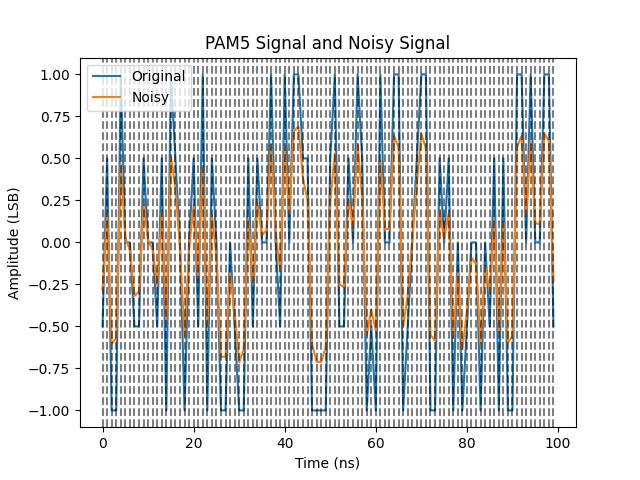
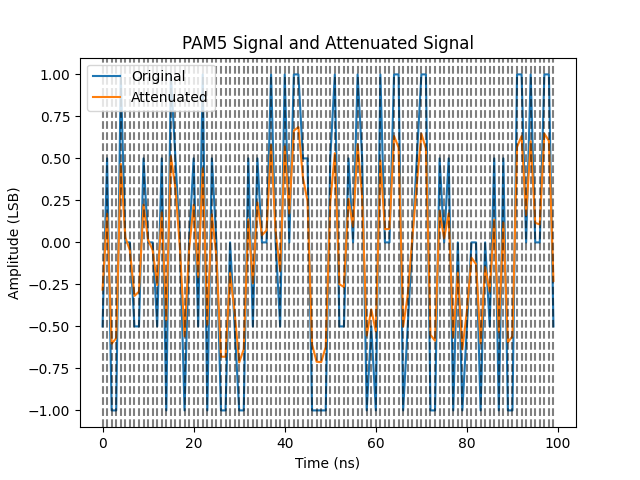
REFACTOR: code

Changed region(s): [[0.1875, 0.0625, 0.75, 0.25]]

diff --git a/generators/chipyard/src/main/resources/python/run_simulation.py b/generators/chipyard/src/main/resources/python/run_simulation.py
@@ -4,6 +4,7 @@ import matplotlib.pyplot as plt
 
 from fir_filter import FirFilterGenerator
 from pam5_symbol_generator import Pam5SymbolGenerator
+from ethernet_channel import GenericEthernetCable, EthernetChannel
 
 
 np.random.seed(420)
@@ -11,11 +12,6 @@ np.random.seed(420)
 
 simulation_frequency = 125e6 # Hz
 sampling_frequency = 125e6 # Hz
-
-# Define target SNR in dB
-target_snr_db = 20
-lowpass_cutoff = 125e6 / 4  # Hz
-
 
 n_symbols = 100
 duration = n_symbols * (1 / sampling_frequency)
@@ -33,46 +29,17 @@ pam5_symbols = Pam5SymbolGenerator.random(n_symbols)
 
 print(f"Symbols: {pam5_symbols}")
 
+
 # convert the symbols to fill real-time clock
-pam5_signal_base = np.repeat(pam5_symbols, simulation_frequency // sampling_frequency) / 2
-# pass through DAC (i.e. scale by 0x3F and convert to single ended)
-# pam5_signal = (pam5_signal_base + 2) * 0x3F
-pam5_signal = pam5_signal_base
-
-# low pass filter the signal
-# pam5_signal = signal.lfilter([1], [1, -lowpass_cutoff], pam5_signal)
-
-# apply convolution smoothing
-window_size = int(sampling_frequency // lowpass_cutoff)
-pam5_signal = pam5_signal # + np.convolve(pam5_signal, np.ones(window_size) / window_size, mode="valid")
+pam5_signal = np.repeat(pam5_symbols, simulation_frequency // sampling_frequency) / 2
 
 
 # Model channel attenuation
 cable_length = 50
 
-freq_MHz = np.array([0, 1, 4, 8, 10, 16, 20, 25, 31.25, 62.5, 100])
-attenuation_dB = np.array([0, 2.0, 3.8, 5.3, 6.0, 7.6, 8.5, 9.5, 10.7, 15.4, 19.8])
-attenuation_dB *= (cable_length / 100)
+channel = EthernetChannel(GenericEthernetCable, cable_length)
 
-# attenuate the signal at each frequency
-# Perform FFT to transform the signal to the frequency domain
-pam5_signal_freq = np.fft.fft(pam5_signal)
-
-# Create a frequency axis
-freq_axis = np.fft.fftfreq(len(pam5_signal), d=1/simulation_frequency)
-
-# Interpolate the attenuation values to match the frequency axis
-attenuation_interp = np.interp(np.abs(freq_axis), freq_MHz * 1e6, attenuation_dB)
-
-# Convert attenuation from dB to linear scale
-attenuation_linear = 10 ** (-attenuation_interp / 20)
-
-# Apply the attenuation to the frequency domain signal
-pam5_signal_freq_attenuated = pam5_signal_freq * attenuation_linear
-
-# Transform the attenuated signal back to the time domain
-pam5_signal_noisy = np.fft.ifft(pam5_signal_freq_attenuated).real
-
+pam5_signal_noisy = channel.attenuate(pam5_signal, simulation_frequency)
 
 
 # create time axis
@@ -91,23 +58,11 @@ symbol_boundaries = np.arange(0, len(pam5_signal), simulation_frequency // sampl
 for i in range(n_symbols):
     plt.axvline(x=symbol_boundaries[i], color="k", linestyle="--", alpha=0.5)
 
-# draw triangle to represent sampling point
-# samping_offset = 0.25 * (1 / sampling_frequency) * 1e9
-# samping_offset_s = e-9
-
-# sampled_points = []
-
-# print(f"Samping offset: {samping_offset_s * 1e9} ns")
-# for i in range(len(symbol_boundaries)):
-#     index = int(symbol_boundaries[i] + samping_offset_s * 1e9)
-#     if index < len(pam5_signal):
-#         plt.plot([symbol_boundaries[i] + samping_offset_s * 1e9], [pam5_signal_noisy[index]], 'ro', alpha=0.5)
-#         sampled_points.append(pam5_signal_noisy[index])
 
 plt.xlabel("Time (ns)")
 plt.ylabel("Amplitude (LSB)")
-plt.title("PAM5 Signal and Noisy Signal")
-plt.legend(["Original", "Noisy"])
+plt.title("PAM5 Signal and Attenuated Signal")
+plt.legend(["Original", "Attenuated"])
 
 plt.savefig("test_pam5_signal.png")
 
@@ -117,9 +72,7 @@ plt.close()
 
 
 gen = FirFilterGenerator()
-
-taps = gen.calculate_taps(cable_length=cable_length)
-
+taps = gen.calculate_taps(channel_profile=GenericEthernetCable, cable_length=cable_length)
 
 result = gen.simulate(pam5_signal_noisy)
 
@@ -130,9 +83,10 @@ output_power = np.max(np.abs(result))
 print(f"Input Power: {input_power:.2f}")
 print(f"Output Power: {output_power:.2f}")
 
-print(f"attenuation: {10 * np.log10(output_power / input_power):.2f} dB, {output_power / input_power:.2f} LSB")
+attenuation = output_power / input_power
+attenuation_lsb = attenuation * 0xFF
 
-
+print(f"Attenuation: {10 * np.log10(attenuation):.2f} dB, {attenuation_lsb:.2f} LSB")
 
 plt.clf()
 plt.close()

diff --git a/generators/chipyard/src/main/resources/python/ethernet_channel.py b/generators/chipyard/src/main/resources/python/ethernet_channel.py
@@ -1,0 +1,44 @@
+from dataclasses import MISSING
+
+import numpy as np
+import scipy.signal as signal
+import matplotlib.pyplot as plt
+
+
+
+class EthernetChannelProfile:
+    freq_mhz: np.ndarray = MISSING
+    attenuation_db: np.ndarray = MISSING
+
+class GenericEthernetCable(EthernetChannelProfile):
+    freq_mhz = np.array([0, 1, 4, 8, 10, 16, 20, 25, 31.25, 62.5, 100])
+    attenuation_db = np.array([0, 2.0, 3.8, 5.3, 6.0, 7.6, 8.5, 9.5, 10.7, 15.4, 19.8])
+
+
+class EthernetChannel:
+    def __init__(self, characteristic: EthernetChannelProfile, cable_length: float = 100):
+        self.freq_mhz = characteristic.freq_mhz
+        self.attenuation_db = characteristic.attenuation_db * (cable_length / 100)
+        self.cable_length = cable_length
+
+    def attenuate(self, signal: np.ndarray, simulation_frequency: float) -> np.ndarray:
+        # attenuate the signal at each frequency
+        # Perform FFT to transform the signal to the frequency domain
+        signal_freq = np.fft.fft(signal)
+
+        # Create a frequency axis
+        freq_axis = np.fft.fftfreq(len(signal), d=1/simulation_frequency)
+
+        # Interpolate the attenuation values to match the frequency axis
+        attenuation_interp = np.interp(np.abs(freq_axis), self.freq_mhz * 1e6, self.attenuation_db)
+
+        # Convert attenuation from dB to linear scale
+        attenuation_linear = 10 ** (-attenuation_interp / 20)
+
+        # Apply the attenuation to the frequency domain signal
+        signal_freq_attenuated = signal_freq * attenuation_linear
+
+        # Transform the attenuated signal back to the time domain
+        signal_attenuated = np.fft.ifft(signal_freq_attenuated).real
+
+        return signal_attenuated

diff --git a/generators/chipyard/src/main/resources/python/fir_filter.py b/generators/chipyard/src/main/resources/python/fir_filter.py
@@ -3,6 +3,8 @@ import numpy as np
 import scipy.signal as signal
 import matplotlib.pyplot as plt
 
+from ethernet_channel import EthernetChannelProfile
+
 
 np.set_printoptions(precision=4)
 
@@ -51,7 +53,7 @@ class FirFilterGenerator:
         """
         return data.astype(np.float32) / scale
     
-    def calculate_taps(self, cable_length) -> np.ndarray:
+    def calculate_taps(self, channel_profile: EthernetChannelProfile, cable_length: float = 100) -> np.ndarray:
         """
         Calculates the taps for the FIR filter.
         """

diff --git a/generators/chipyard/src/main/resources/python/generate_test_data.py b/generators/chipyard/src/main/resources/python/generate_test_data.py
@@ -23,6 +23,7 @@ import os
 import numpy as np
 
 from fir_filter import FirFilterGenerator
+from ethernet_channel import GenericEthernetCable
 
 
 np.set_printoptions(precision=4)
@@ -35,7 +36,7 @@ s = 128
 gen = FirFilterGenerator()
 
 
-taps = gen.calculate_taps()
+taps = gen.calculate_taps(channel_profile=GenericEthernetCable, cable_length=50)
 
 # taps[:] = 0
 # taps[0] = 0.5
